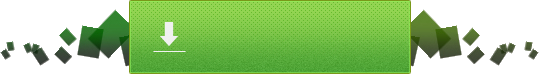
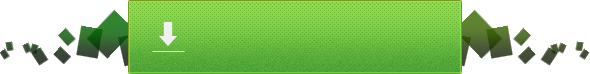
Increase width of download button

diff --git a/static/css/style.css b/static/css/style.css
@@ -118,7 +118,7 @@ a:hover {
 }
 
 #download .button {
-    width: 540px;
+    width: 590px;
     height: 64px;
     padding-top: 10px;
     margin: 0 auto;
@@ -136,7 +136,7 @@ a:hover {
 
 #download .big {
     position: absolute;
-    left: 200px;
+    left: 202px;
     top: 25px;
     font-size: 2em;
     color: white;
@@ -148,7 +148,7 @@ a:hover {
 
 #download .small {
     position: absolute;
-    left: 200px;
+    left: 202px;
     top: 10px;
 }
 
